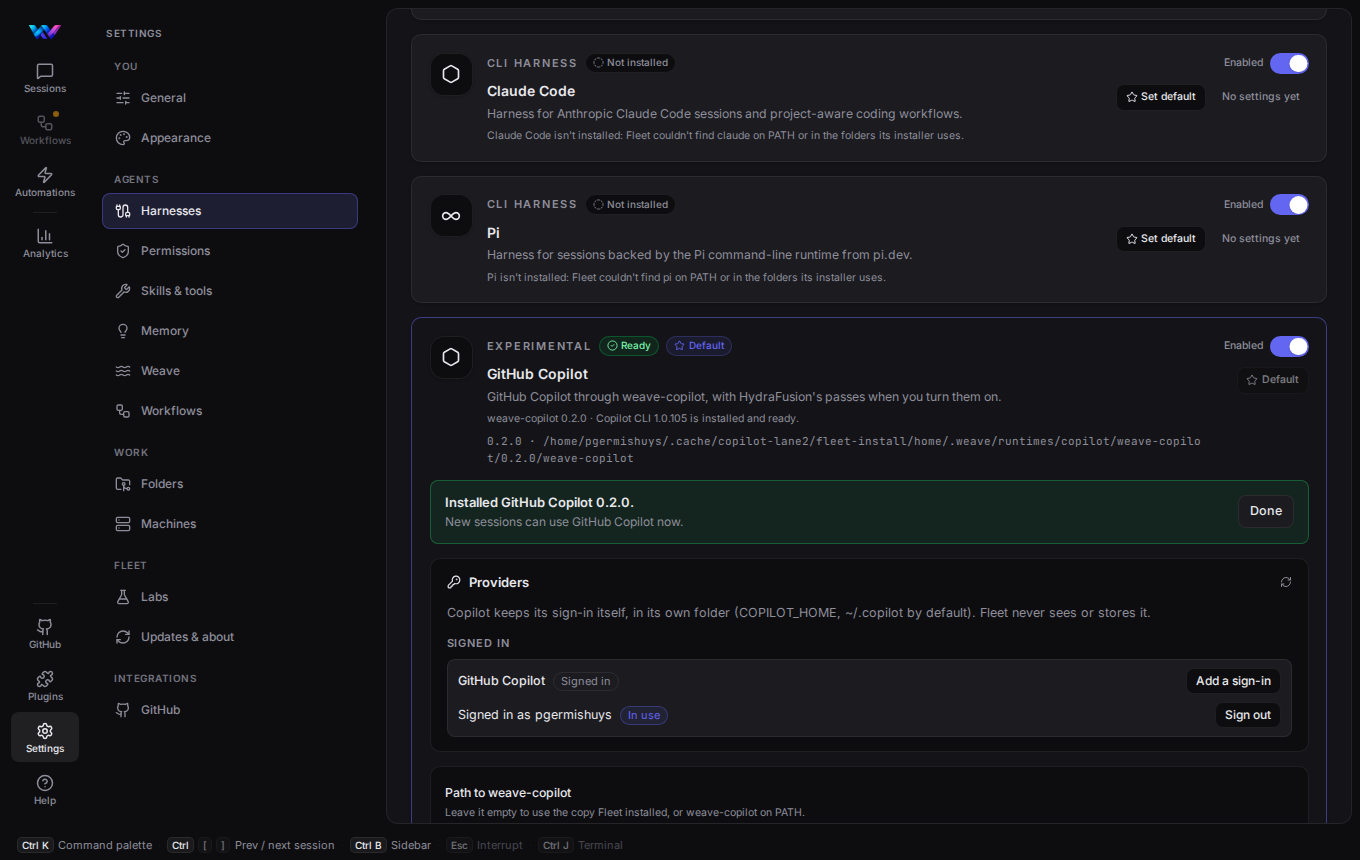
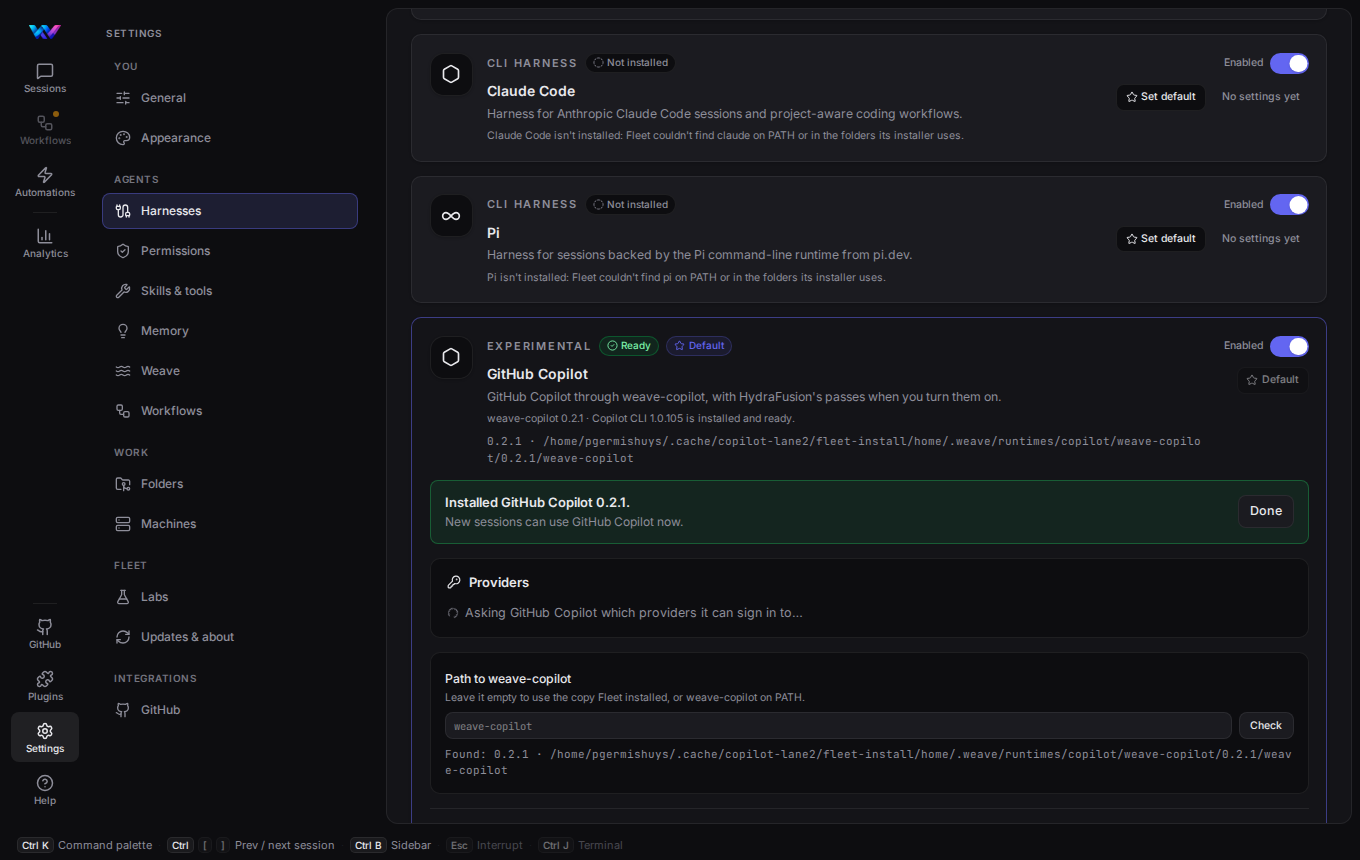
feat(copilot): pin weave-copilot 0.2.1; an answer names the model its session was on, so a session left on Auto says so

diff --git a/src/WeaveFleet.Infrastructure/Harnesses/Acp/AcpMapper.cs b/src/WeaveFleet.Infrastructure/Harnesses/Acp/AcpMapper.cs
@@ -55,6 +55,7 @@ internal sealed class AcpMapper(string sessionId, Func<string, JsonElement, Flee
     private string? _openPartId;
     private string? _assistantId;
     private DateTimeOffset _assistantAt;
+    private string? _assistantModel;     // the session's model when the answer began (Copilot names none per message)
     private bool _userOpen;
     private int _partCount;
     private int _stepCount;
@@ -651,6 +652,7 @@ internal sealed class AcpMapper(string sessionId, Func<string, JsonElement, Flee
             return;
         _assistantId = AscendingMessageId.New();
         _assistantAt = DateTimeOffset.UtcNow;
+        _assistantModel = model?.Invoke();
         events.Add(Event(EventTypes.MessageCreated, Lifecycle(_assistantId, completed: false)));
     }
 
@@ -669,7 +671,7 @@ internal sealed class AcpMapper(string sessionId, Func<string, JsonElement, Flee
         _openKind = _openPartId = null;
     }
 
-    private HarnessMessage Assistant() => new() { Id = _assistantId!, Role = "assistant", Parts = [.. _parts], Timestamp = _assistantAt };
+    private HarnessMessage Assistant() => new() { Id = _assistantId!, Role = "assistant", Parts = [.. _parts], Timestamp = _assistantAt, ModelId = _assistantModel };
 
     /// <summary>The user's message: the text, then each attached image as a file part, as the other harnesses show them.</summary>
     private void AddUser(string text, IReadOnlyList<HarnessAttachment>? images = null, string? messageId = null)
@@ -694,6 +696,7 @@ internal sealed class AcpMapper(string sessionId, Func<string, JsonElement, Flee
                 Id = messageId,
                 Role = "assistant",
                 SessionId = sessionId,
+                ModelId = _assistantModel,
                 Time = new MessageEventTime
                 {
                     Created = _assistantAt.ToUnixTimeMilliseconds(),

diff --git a/tests/WeaveFleet.Infrastructure.Tests/Harnesses/Acp/AcpMapperTests.cs b/tests/WeaveFleet.Infrastructure.Tests/Harnesses/Acp/AcpMapperTests.cs
@@ -506,6 +506,21 @@ public sealed class AcpMapperTests
         => JsonSerializer.SerializeToElement(new { sessionId = "s1", phase, trigger, tokensBefore = before, tokensAfter = after, summary, error });
 
     [Fact]
+    public void an_answer_names_the_model_the_session_was_on_when_it_began()
+    {
+        var current = "auto";
+        var mapper = new AcpMapper("s1", model: () => current);
+        mapper.UserPrompt("hi");
+
+        var created = mapper.Update(Chunk("agent_message_chunk", "Hello.")).First(e => e.Type == EventTypes.MessageCreated);
+        current = "claude-haiku-5.5";
+
+        // The header and the picker's "Default (…)" read it: Copilot names no model per message.
+        created.Payload!.Value.GetProperty("info").GetProperty("modelID").GetString().ShouldBe("auto");
+        mapper.Messages()[^1].ModelId.ShouldBe("auto");
+    }
+
+    [Fact]
     public void a_usage_update_after_a_main_agent_call_carries_its_split()
     {
         var mapper = new AcpMapper("s1");

diff --git a/src/WeaveFleet.Infrastructure/Harnesses/Copilot/CopilotInstaller.cs b/src/WeaveFleet.Infrastructure/Harnesses/Copilot/CopilotInstaller.cs
@@ -16,7 +16,7 @@ namespace WeaveFleet.Infrastructure.Harnesses.Copilot;
 internal sealed class CopilotInstaller(IHttpClientFactory httpClientFactory, string home, Func<string, string?>? environment = null) : IHarnessInstaller
 {
     /// <summary>The weave-copilot release this Fleet was built against.</summary>
-    internal const string WeaveCopilotVersion = "0.2.0";
+    internal const string WeaveCopilotVersion = "0.2.1";
 
     /// <summary>The Copilot CLI release weave-copilot was tested with.</summary>
     internal const string CliVersion = "1.0.105";

diff --git a/tests/WeaveFleet.Infrastructure.Tests/Harnesses/Copilot/CopilotHarnessTests.cs b/tests/WeaveFleet.Infrastructure.Tests/Harnesses/Copilot/CopilotHarnessTests.cs
@@ -15,5 +15,5 @@ public sealed class CopilotHarnessTests
 
     [Fact]
     public void the_pinned_runtimes_are_the_ones_compaction_was_probed_on()
-        => (CopilotInstaller.WeaveCopilotVersion, CopilotInstaller.CliVersion).ShouldBe(("0.2.0", "1.0.105"));
+        => (CopilotInstaller.WeaveCopilotVersion, CopilotInstaller.CliVersion).ShouldBe(("0.2.1", "1.0.105"));
 }
